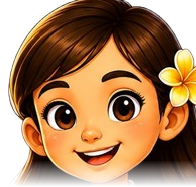
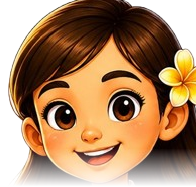
Perhalus rig kepala sesuai temuan Gemini
Gemini menilai rig 7/10: kepala & lentera menempel wajar dan tidak
menyeramkan, tapi ia masih melihat sisa garis potong di leher.

- Feather tepi bawah potongan kepala 26px -> 38px
- Tambah drop-shadow tipis di bawah kepala: memberi kedalaman sekaligus
  menyamarkan sambungan saat kepala berputar (saran Gemini)
- Sudut angguk dikecilkan 1.8 -> 1.4 derajat

Changed region(s): [[0.0918, 0.8021, 1.0, 0.9626]]

diff --git a/index.html b/index.html
@@ -1109,9 +1109,13 @@
       50%     { transform: translateY(-1.1%) scaleY(1.008); }
     }
 
-    /* kepala mengangguk pelan */
-    .kar-kepala { animation: angguk 5.2s ease-in-out infinite; }
-    @keyframes angguk { 0%,100%{transform:rotate(-1.8deg)} 50%{transform:rotate(1.8deg)} }
+    /* Kepala mengangguk pelan. drop-shadow tipis memberi kedalaman sekaligus
+       menyamarkan sambungan leher saat kepala berputar. */
+    .kar-kepala {
+      animation: angguk 5.2s ease-in-out infinite;
+      filter: drop-shadow(0 3px 3px rgba(60,35,10,.28));
+    }
+    @keyframes angguk { 0%,100%{transform:rotate(-1.4deg)} 50%{transform:rotate(1.4deg)} }
 
     /* lentera berayun dari gantungannya */
     .kar-lentera { animation: ayunLentera 4.4s ease-in-out infinite; }
@@ -1142,8 +1146,8 @@
     /* bicara: mulut buka-tutup bergantian + kepala memantul halus */
     .kar.bicara .kar-kepala { animation: ngomongKepala .5s ease-in-out infinite; }
     @keyframes ngomongKepala {
-      0%,100% { transform: rotate(-.8deg) translateY(0); }
-      50%     { transform: rotate(1.2deg) translateY(.7%); }
+      0%,100% { transform: rotate(-.7deg) translateY(0); }
+      50%     { transform: rotate(1deg) translateY(.6%); }
     }
     .kar.bicara .fr-tutup  { animation: mulutTutup .34s steps(1) infinite; }
     .kar.bicara:has(.fr-tutup) .fr-normal { animation: mulutBuka .34s steps(1) infinite; }
